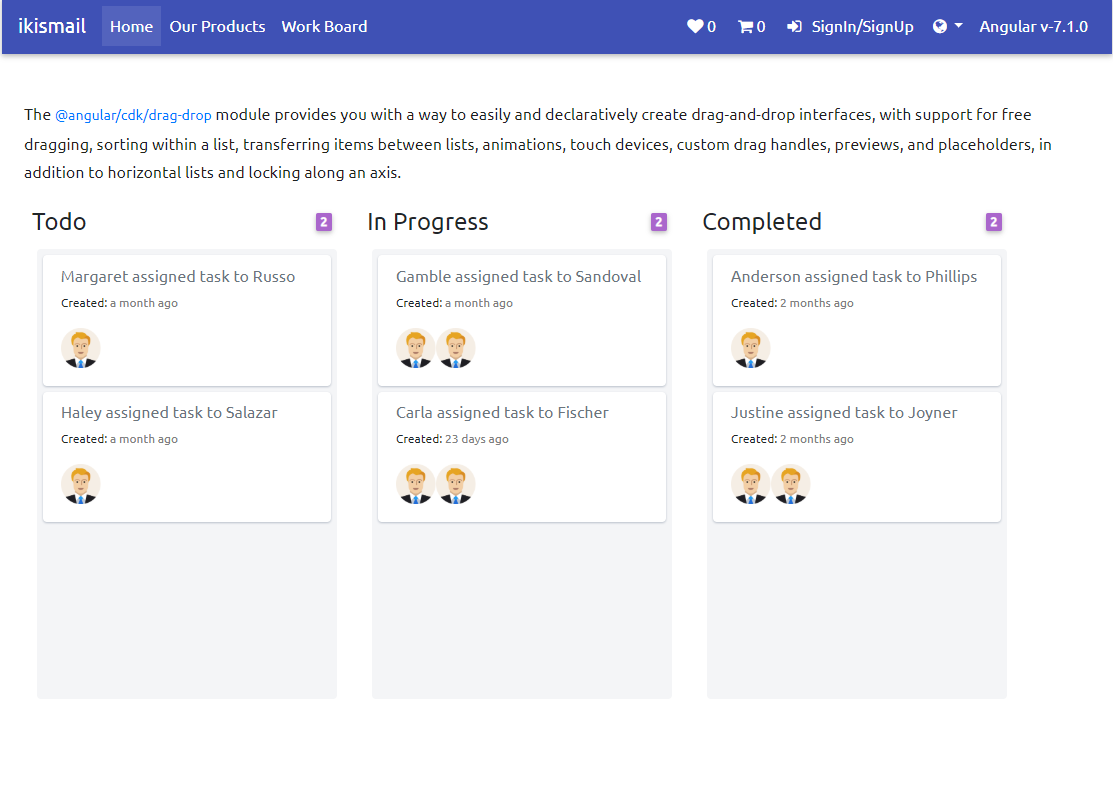
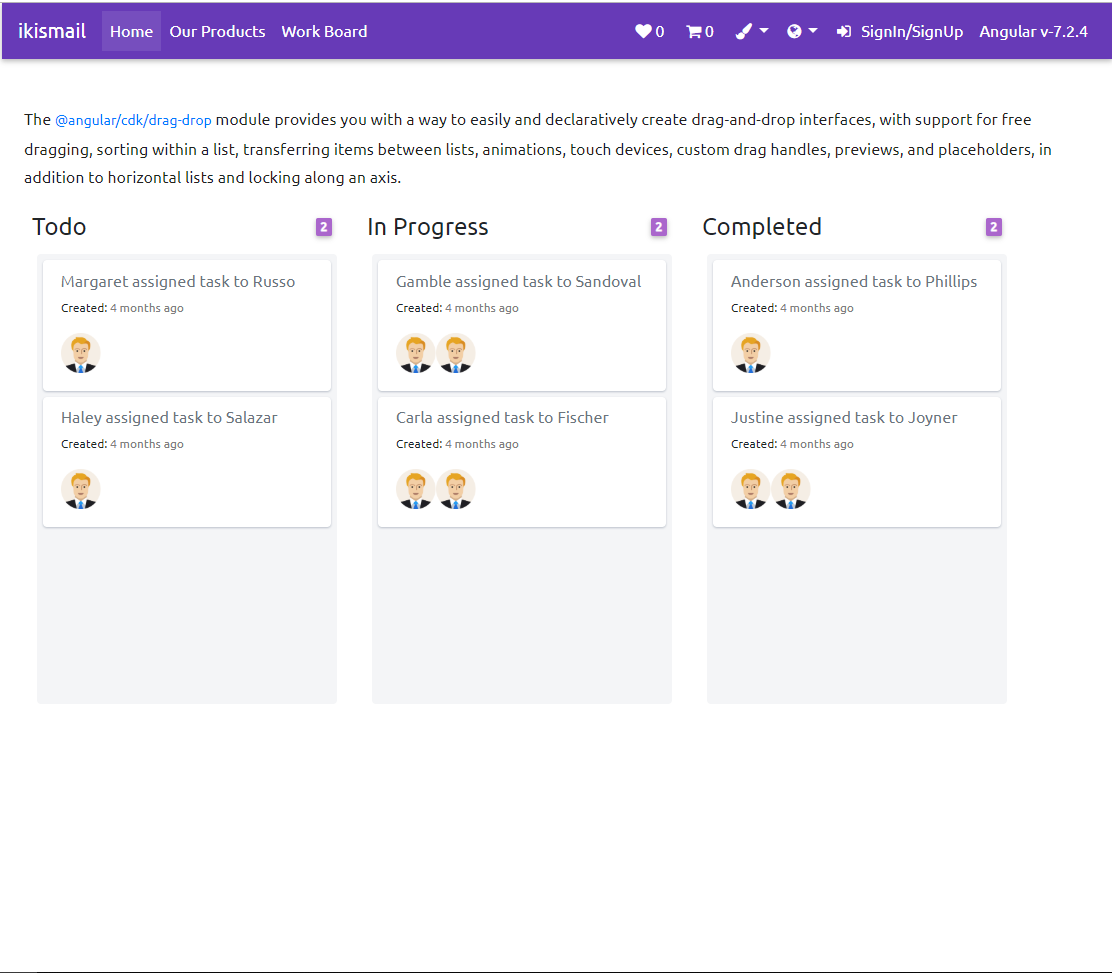
Implemented Dynamic Theme Changer

diff --git a/src/app/index/navbar/navbar.component.html b/src/app/index/navbar/navbar.component.html
@@ -1,12 +1,12 @@
 <!--Navbar-->
-<nav class="navbar navbar-expand-lg navbar-dark indigo">
+<nav class="navbar navbar-expand-lg navbar-dark">
 
   <!-- Navbar brand -->
   <a class="navbar-brand" href="javascript:;;">ikismail</a>
 
   <!-- Collapse button -->
-  <button class="navbar-toggler" type="button" data-toggle="collapse" data-target="#basicExampleNav" aria-controls="basicExampleNav"
-    aria-expanded="false" aria-label="Toggle navigation">
+  <button class="navbar-toggler" type="button" data-toggle="collapse" data-target="#basicExampleNav"
+    aria-controls="basicExampleNav" aria-expanded="false" aria-label="Toggle navigation">
     <span class="navbar-toggler-icon"></span>
   </button>
 
@@ -58,13 +58,44 @@
         <a class="nav-link" [routerLink]="['/users']">
           <i class="fa fa-user mr-1"></i>{{this.translate.data["MYACCOUNT"] | translate}}</a>
       </li>
-      <li class="nav-item" *ngIf="!authService.isLoggedIn()">
-        <a class="nav-link" [routerLink]="[ '/login' ]">
-          <i class="fa fa-sign-in mr-1"></i> {{this.translate.data["SIGNIN"] | translate}}</a>
-      </li>
-      <li class="nav-item" *ngIf="authService.isLoggedIn()">
-        <a class="nav-link" (click)="logout()">
-          <i class="fa fa-sign-in mr-1"></i>{{this.translate.data["LOGOUT"] | translate}}</a>
+
+      <li class="nav-item dropdown" dropdown>
+        <a dropdownToggle type="button" class="nav-link dropdown-toggle waves-light">
+          <i class="fa fa-paint-brush"> </i><span class="caret"></span></a>
+        <div *dropdownMenu class="dropdown-menu dropdown dropdown-primary color-dropdown" role="menu">
+          <div class="row p-2" style="margin:0">
+            <div class="col-sm-6 hover-effect" data-toggle="tooltip" data-placement="bottom" title="Purple Theme"
+              style="padding: 0">
+              <div class="color-container" (click)="updateTheme('purple-theme')">
+                <div class="colorDiv color-purple">
+                </div>
+              </div>
+            </div>
+            <div class="col-sm-6 hover-effect" data-toggle="tooltip" data-placement="bottom" title="Blue Theme"
+              style="padding: 0">
+              <div class="color-container" (click)="updateTheme('blue-theme')">
+                <div class="colorDiv color-blue">
+                </div>
+              </div>
+            </div>
+          </div>
+          <div class="row p-2" style="margin:0">
+            <div class="col-sm hover-effect" data-toggle="tooltip" data-placement="bottom" title="Red Theme"
+              style="padding: 0">
+              <div class="color-container">
+                <div class="colorDiv color-red" (click)="updateTheme('red-theme')">
+                </div>
+              </div>
+            </div>
+            <div class="col-sm hover-effect" data-toggle="tooltip" data-placement="bottom" title="Violet Theme"
+              style="padding: 0">
+              <div class="color-container">
+                <div class="colorDiv color-violet" (click)="updateTheme('violet-theme')">
+                </div>
+              </div>
+            </div>
+          </div>
+        </div>
       </li>
       <li class="nav-item dropdown" dropdown>
         <a dropdownToggle type="button" class="nav-link dropdown-toggle waves-light">
@@ -86,6 +117,14 @@
             <i class="fa fa-flag-o mr-2"></i>
             Hindi (hin)</a>
         </div>
+      </li>
+      <li class="nav-item" *ngIf="!authService.isLoggedIn()">
+        <a class="nav-link" [routerLink]="[ '/login' ]">
+          <i class="fa fa-sign-in mr-1"></i> {{this.translate.data["SIGNIN"] | translate}}</a>
+      </li>
+      <li class="nav-item" *ngIf="authService.isLoggedIn()">
+        <a class="nav-link" (click)="logout()">
+          <i class="fa fa-sign-in mr-1"></i>{{this.translate.data["LOGOUT"] | translate}}</a>
       </li>
       <li class="nav-item">
         <a href="javascript:;;" class="nav-link">Angular v-{{angularVersion.full}}</a>

diff --git a/src/app/index/navbar/navbar.component.ts b/src/app/index/navbar/navbar.component.ts
@@ -1,14 +1,13 @@
 import {
   Component,
   OnInit,
-  EventEmitter,
-  Output,
   VERSION
 } from "@angular/core";
 import { Router } from "@angular/router";
 import { AuthService } from "../../shared/services/auth.service";
 import { ProductService } from "../../shared/services/product.service";
 import { TranslateService } from "../../shared/services/translate.service";
+import { ThemeService } from "src/app/shared/services/theme.service";
 declare var $: any;
 
 @Component({
@@ -23,12 +22,13 @@ export class NavbarComponent implements OnInit {
     public authService: AuthService,
     private router: Router,
     public productService: ProductService,
-    public translate: TranslateService
+    public translate: TranslateService,
+    private themeService: ThemeService
   ) {
     // console.log(translate.data);
   }
 
-  ngOnInit() {}
+  ngOnInit() { }
   logout() {
     this.authService.logout();
     this.router.navigate(["/"]);
@@ -36,6 +36,10 @@ export class NavbarComponent implements OnInit {
 
   setLang(lang: string) {
     // console.log("Language", lang);
-    this.translate.use(lang).then(() => {});
+    this.translate.use(lang).then(() => { });
+  }
+
+  updateTheme(theme: string) {
+    this.themeService.updateThemeUrl(theme);
   }
 }

diff --git a/src/app/index/navbar/navbar.component.scss b/src/app/index/navbar/navbar.component.scss
@@ -1,6 +1,51 @@
+
+@import "../../../assets/theme/colors";
+@import "../../../assets/theme/functions";
+
+
 .navbar {
   top: 0;
+  background: var(--navBackground)
 }
+
+
+.color-container {
+    position: relative;
+    cursor: pointer;
+    width: 36px;
+    height: 36px;
+    margin: auto;
+    border-radius: 50%;
+    overflow: hidden;
+
+    .colorDiv {
+      position: absolute;
+      top: 0;
+      left: 0;
+      width: 100%;
+      height: 100%;
+      box-sizing: border-box;
+      border-radius: 50%;
+    }
+
+    .color-purple{
+      background: #9c27b0
+
+    }
+    .color-red{
+      background: #e91e63
+
+    }
+    .color-blue{
+      background: #3f51b5
+
+    }
+    .color-violet{
+      background: #673ab7
+
+    }
+  }
+
 
 /deep/ .dropdown-menu {
   margin-left: -6rem;

diff --git a/src/app/layouts/product/best-product/best-product.component.scss b/src/app/layouts/product/best-product/best-product.component.scss
@@ -1,3 +1,19 @@
+@import "../../../../assets/theme/colors";
+@import "../../../../assets/theme/functions";
+
+.bq-title{
+  color: var(--productTitle) !important;
+}
+
+.bq-primary {
+    border-left: 3px solid var(--productTitle) !important;
+}
+
+.btn-default {
+  background-color: var(--navBackground) !important;
+}
+
+
 .section .section-heading {
   margin-top: 2rem;
   margin-bottom: 4rem;
@@ -57,6 +73,12 @@
 .card.card-cascade .card-body {
   padding-top: 1.8rem;
 }
+
+
+.card .card-body .card-title a{
+  color: var(--navBackground) !important;
+}
+
 .btn .fa,
 .card .card-body {
   position: relative;
@@ -107,4 +129,8 @@
   margin-left: 1rem;
   -webkit-transition: 0.4s;
   transition: 0.4s;
+}
+
+.card .card-footer .right a .fa-heart {
+  color: var(--navBackground) !important;
 }

diff --git a/src/app/layouts/product/product-list/product-list.component.scss b/src/app/layouts/product/product-list/product-list.component.scss
@@ -1,3 +1,7 @@
+@import "../../../../assets/theme/colors";
+@import "../../../../assets/theme/functions";
+
+
 .section .section-heading {
   margin-top: 2rem;
   margin-bottom: 4rem;
@@ -61,6 +65,12 @@
 .card .card-body {
   position: relative;
 }
+
+.card .card-body .card-title a{
+  color: var(--navBackground) !important;
+}
+
+
 .card .rating {
   color: #ffa000;
 }
@@ -112,5 +122,5 @@
 }
 
 .card .card-footer .right a .fa-heart {
-  color: #3f51b5;
+  color: var(--navBackground) !important;
 }

diff --git a/src/assets/theme/colors.scss b/src/assets/theme/colors.scss
@@ -1,0 +1,27 @@
+.purple-theme {
+    --navBackground: #9c27b0;
+    --productTitle: #9c27b0;
+}
+
+.blue-theme {
+
+    --navBackground: #3f51b5;
+    --productTitle: #3f51b5;
+}
+
+.red-theme {
+    --navBackground: #e91e63;
+    --productTitle: #e91e63;
+}
+
+.violet-theme {
+    --navBackground: #673ab7;
+    --productTitle: #673ab7;
+}
+
+
+
+$variables: (
+    --navBackground: var(--navBackground),
+    --productTitle: var(--productTitle)
+);

diff --git a/src/app/shared/services/theme.service.ts b/src/app/shared/services/theme.service.ts
@@ -1,0 +1,16 @@
+import { Injectable } from '@angular/core';
+
+@Injectable({
+  providedIn: 'root'
+})
+export class ThemeService {
+
+  constructor() { }
+
+  updateThemeUrl(theme: string) {
+
+    document.getElementsByTagName("body")[0].className = theme;
+
+    localStorage.setItem("theme", JSON.stringify(theme))
+  }
+}

diff --git a/src/styles.scss b/src/styles.scss
@@ -1,4 +1,9 @@
 /* You can add global styles to this file, and also import other style files */
+
+@import "./assets/theme/colors";
+@import "./assets/theme/functions";
+
+
 router-outlet ~ * {
   position: absolute;
   width: 100%;

diff --git a/src/index.html b/src/index.html
@@ -62,7 +62,7 @@
   <meta name="theme-color" content="#1976d2">
 </head>
 
-<body>
+<body class="red-theme">
   <app-root>
     <!-- Show simple splash screen-->
     <div class="splash">

diff --git a/src/assets/theme/functions.scss b/src/assets/theme/functions.scss
@@ -1,0 +1,3 @@
+@function var($variable) {
+    @return map-get($variables, $variable);
+}
